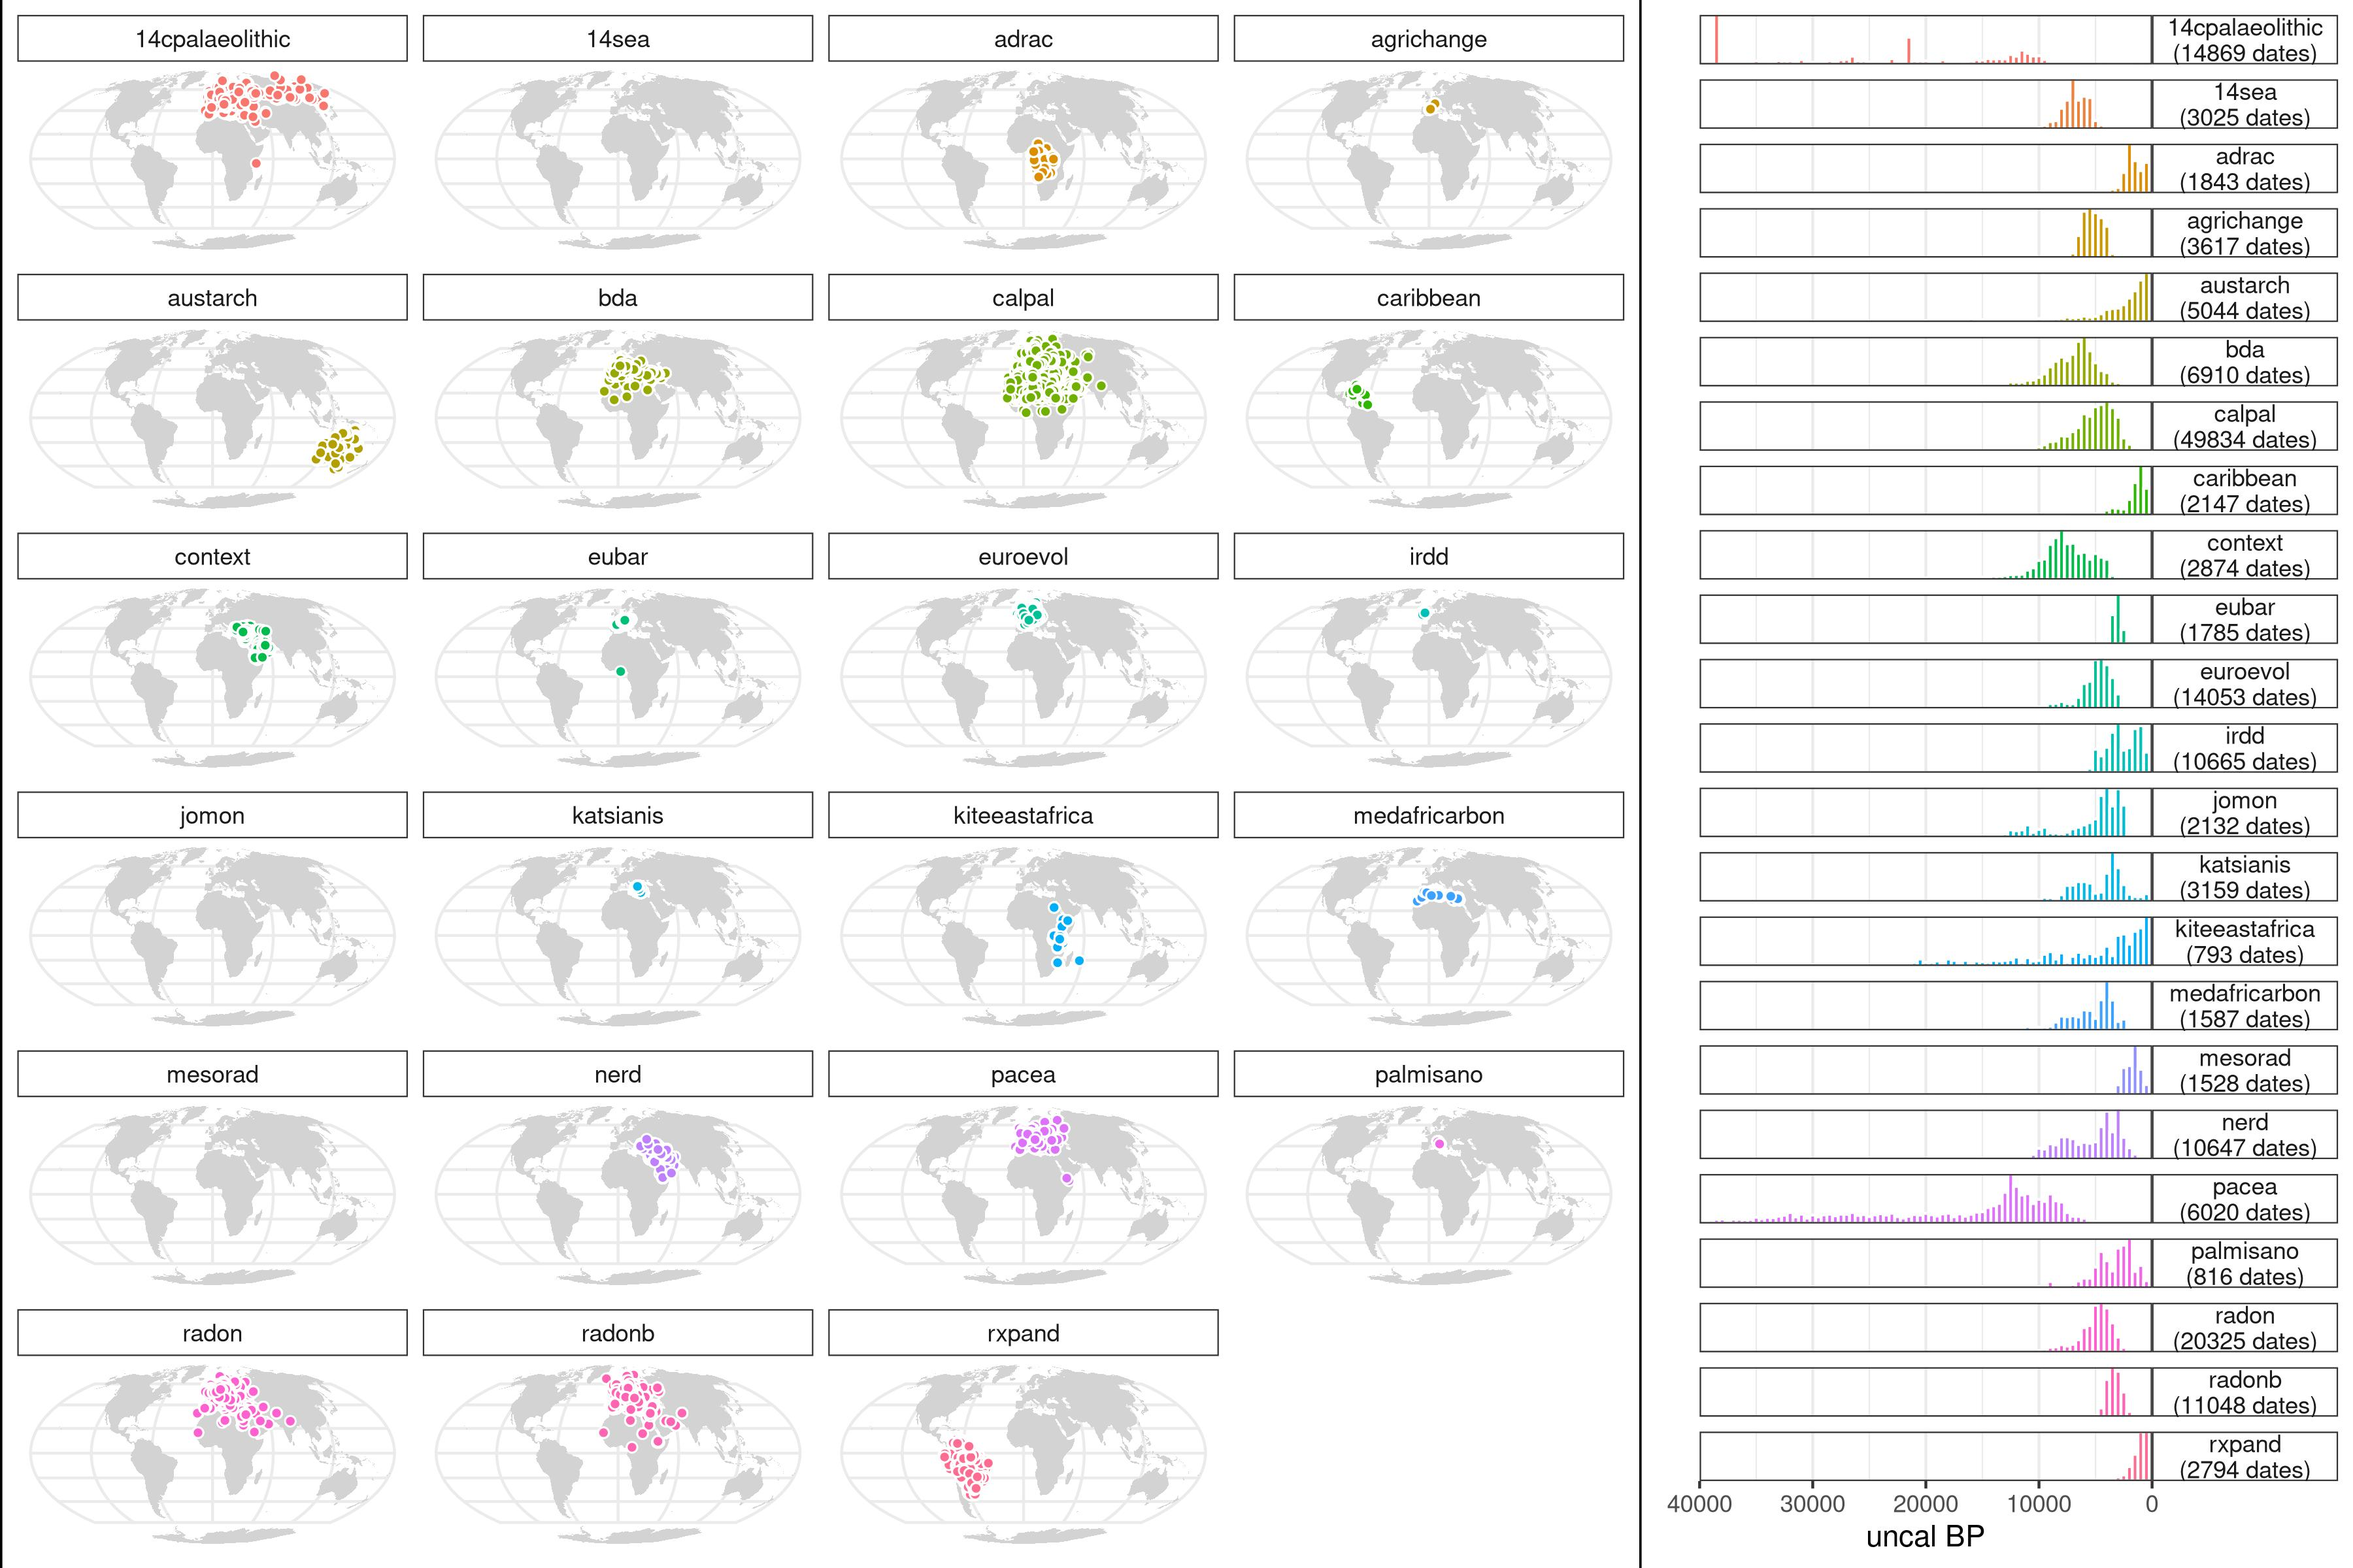
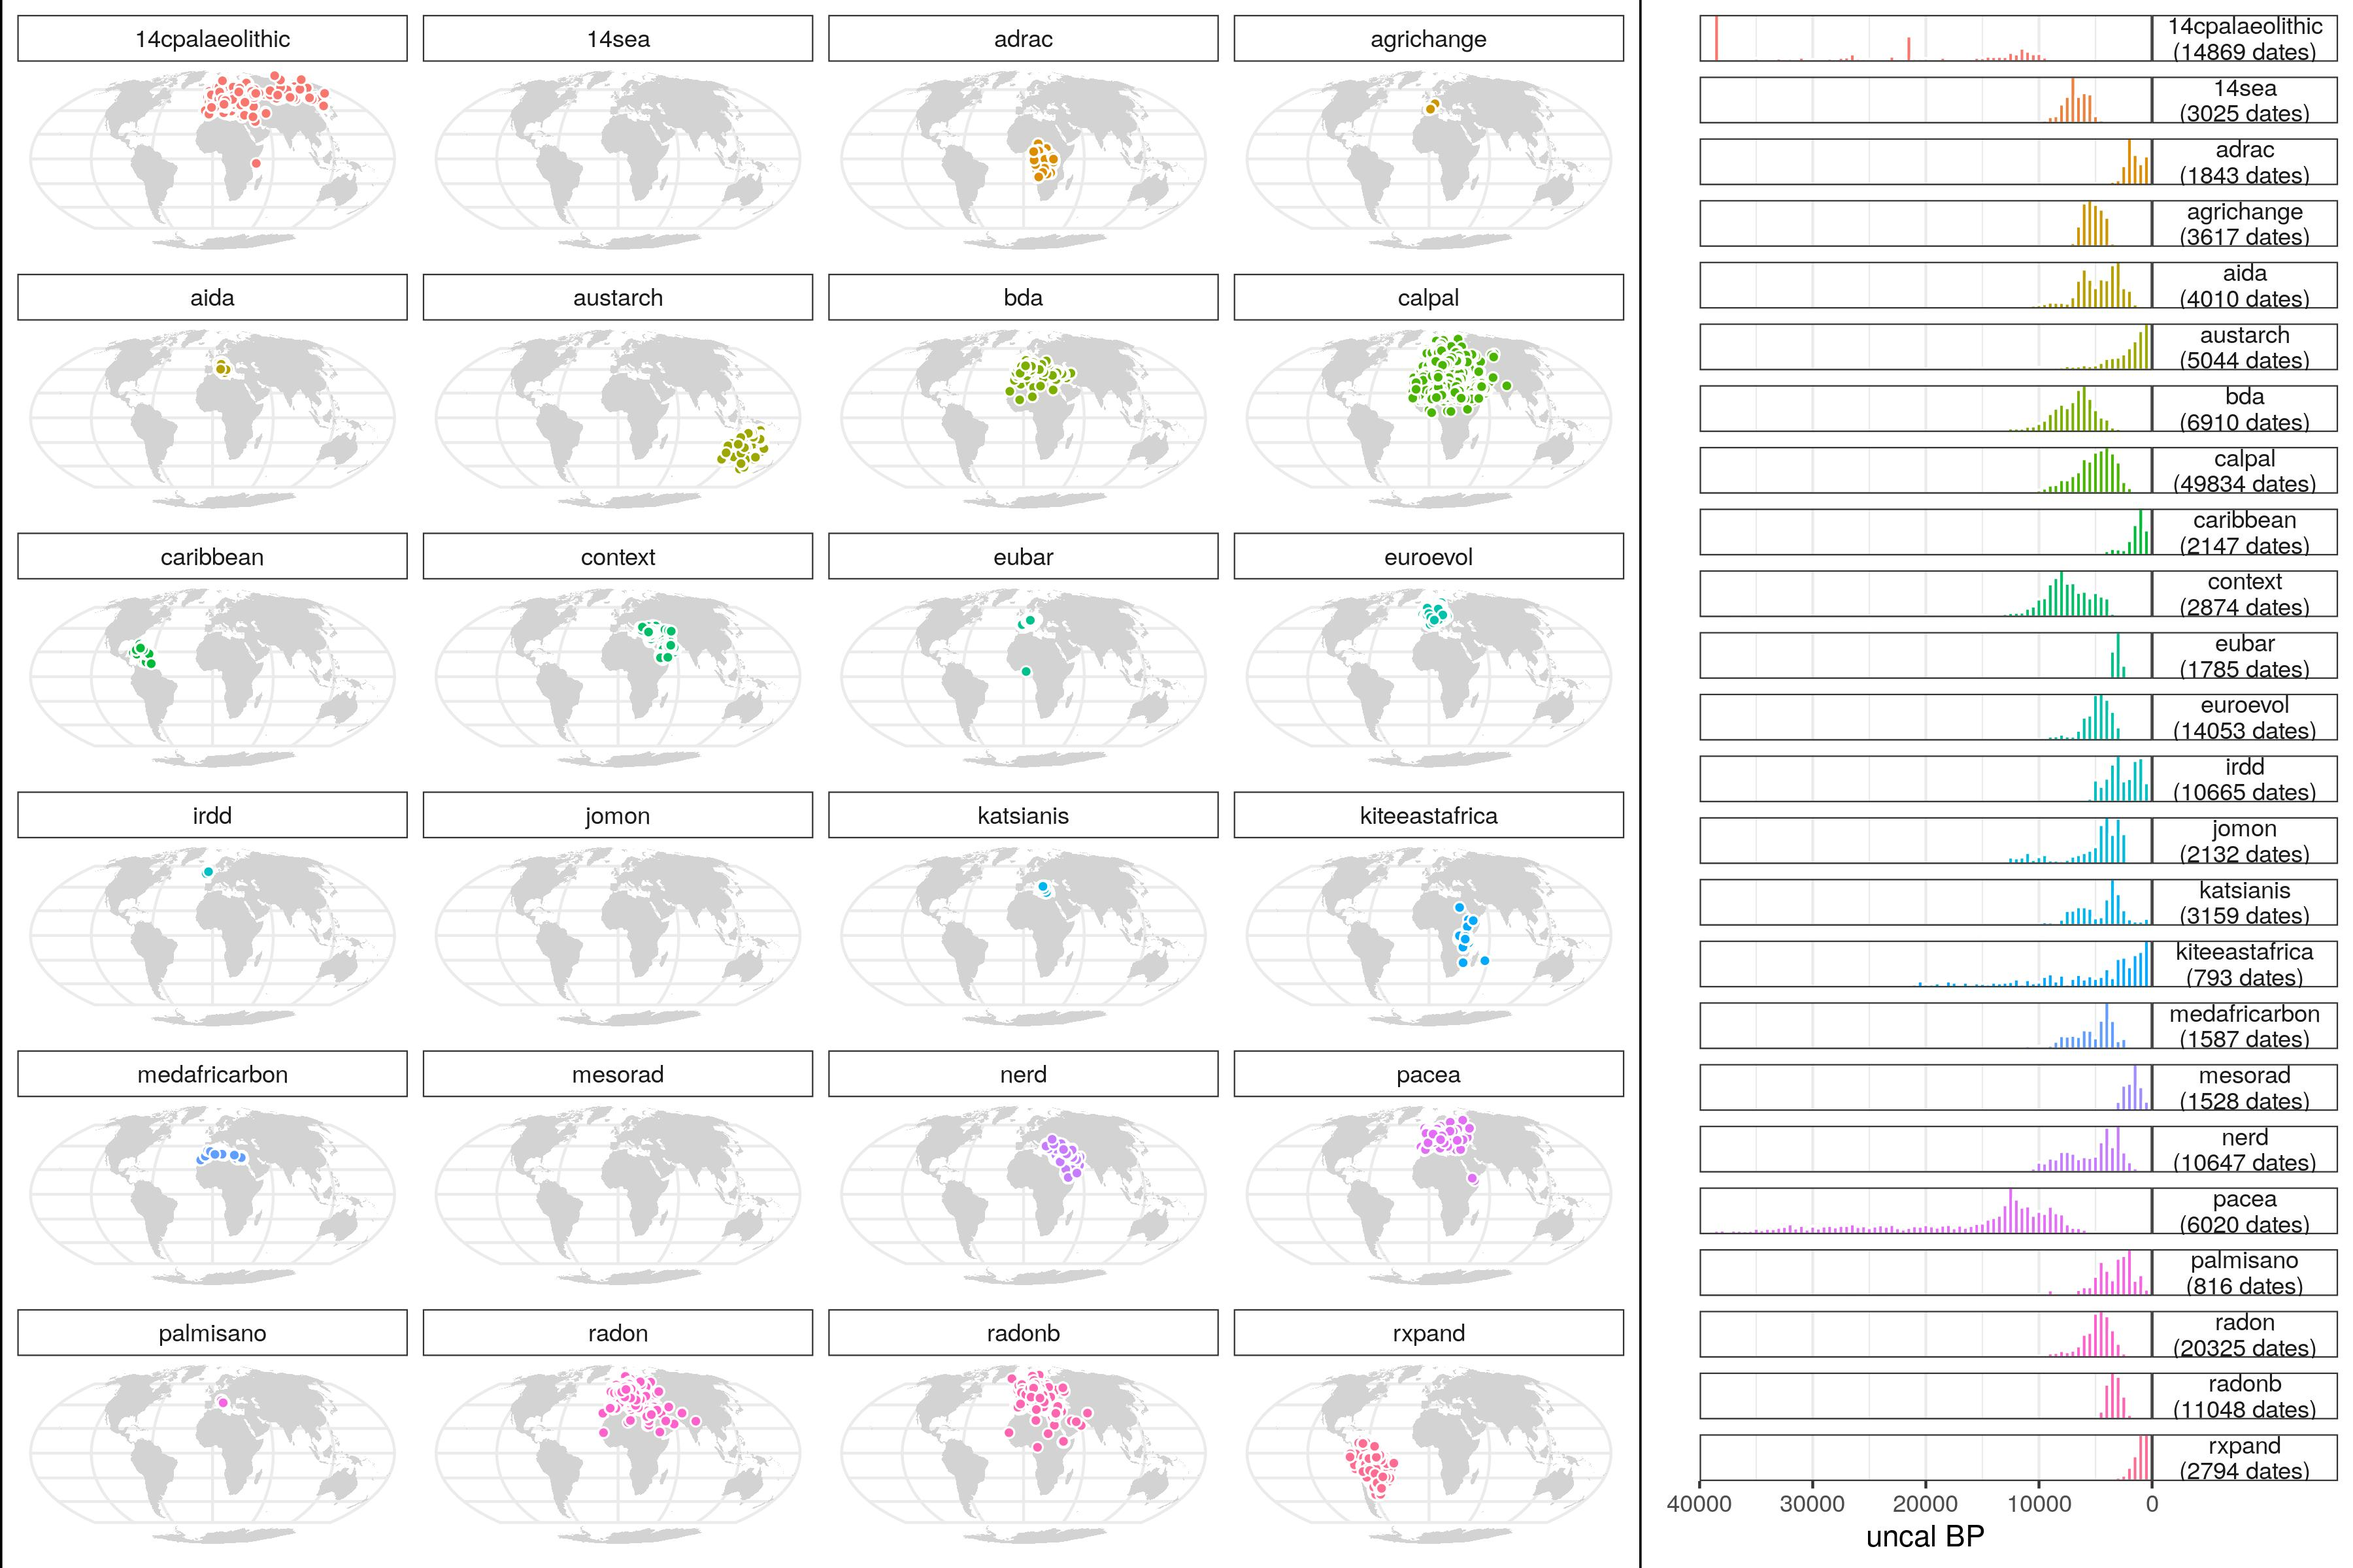
added aida database, updated nerd and adjusted some tiny things in the README

diff --git a/README.md b/README.md
@@ -154,6 +154,7 @@ To suggest other archives to be queried you can join the discussion [here](https
 * [`get_c14data("14sea")`](R/get_14sea.R) [**14sea**](http://www.14sea.org/) 14C database for Southeast Europe and Anatolia (10,000–3000 calBC).
 * [`get_c14data("adrac")`](R/get_adrac.R) [**adrac**](https://github.com/dirkseidensticker/aDRAC): Archives des datations radiocarbone d'Afrique centrale by Dirk Seidensticker.
 * [`get_c14data("agrichange")`](R/get_agrichange.R) [**agrichange**](https://zenodo.org/record/4541470): Radiocarbon dates associated to Neolithic contexts (ca. 5900 – 2000 cal BC) from the northwestern Mediterranean Arch to the High Rhine area by [Héctor Martínez-Grau, Berta Morell-Rovira & Ferran Antolín](https://openarchaeologydata.metajnl.com/articles/10.5334/joad.72/) (2021).
+* [`get_c14data("aida")`](R/get_aida.R) [**AIDA**](https://github.com/apalmisano82/AIDA): Archive of Italian radiocarbon DAtes **Alessio Palmisano, Andrew Bevan, Alex Kabelindde, Neil Roberts & Stephen Shennan** (2021).
 * [`get_c14data("austarch")`](R/get_austarch.R) [**austarch**](https://archaeologydataservice.ac.uk/archives/view/austarch_na_2014/): A Database of 14C and Luminescence Ages from Archaeological Sites in Australia by [Alan N. Williams, Sean Ulm, Mike Smith, Jill Reid](https://intarch.ac.uk/journal/issue36/6/williams.html).
 * [`get_c14data("bda")`](R/get_bda.R) [**BDA**](https://nakala.fr/10.34847/nkl.dde9fnm8): Base de Données Archéologiques by **Thomas Perrin** (1994).
 * [`get_c14data("calpal")`](R/get_calpal.R) [**calpal**](https://uni-koeln.academia.edu/BernhardWeninger/CalPal): Radiocarbon Database of the CalPal software package by Bernhard Weninger. See [nevrome/CalPal-Database](https://github.com/nevrome/CalPal-Database) for an interface.
@@ -181,8 +182,8 @@ If you would like to contribute to this project, please start by reading our [Gu
 
 If you want to add another radiocarbon database to c14bazAAR (maybe from the list [here](https://github.com/ropensci/c14bazAAR/issues/2)) you can follow this checklist to apply all the necessary changes to the package:
 
-1. Add your database to the [variable_reference table](https://github.com/ropensci/c14bazAAR/blob/master/data-raw/variable_reference.csv) and map the database variables to the variables of c14bazAAR and other databases. Please also add additional variables, which are not used in c14bazAAR but available in this database, below.
-2. Write the getter function `get_[The Database Name]` in an own script file: **get_[the database name].R**. For the script file names we used a lowercase version of the database name. The function name on the other hand can contain upper case letters. The getter functions have a standardized layout and always yield an object of the class `c14_date_list`. Please look at some of the available functions to get an idea how it is supposed to look like and which checks it has to include. Make sure not to store data outside of `tempdir()`. Some databases include non-radiocarbon dates: Make sure to filter them out -- c14bazAAR so far only works with radiocarbon dates.
+1. Add your database to the [variable_reference table](https://github.com/ropensci/c14bazAAR/blob/master/data-raw/variable_reference.csv) and map the database variables to the variables of c14bazAAR and other databases.
+2. Write the getter function `get_[The Database Name]` in an own script file: **get_[the database name].R**. For the script file names we used a lowercase version of the database name. The getter functions have a standardized layout and always yield an object of the class `c14_date_list`. Please look at some of the available functions to get an idea how it is supposed to look like and which checks it has to include. Make sure not to store data outside of `tempdir()`. Some databases include non-radiocarbon dates: Make sure to filter them out -- c14bazAAR so far only works with radiocarbon dates.
 3. Add the following roxygen2 tags above the function definition to include it in the package documentation.
 
 ```

diff --git a/NEWS.md b/NEWS.md
@@ -1,3 +1,8 @@
+# 3.1.0
+
+- added getter function for aida database: `get_aida`
+- adjusted getter function for the nerd database (`get_nerd`)
+
 # 3.0.1
 
 - updated `get_14cpalaeolithic` to be compatible with the latest respective database version v.28
